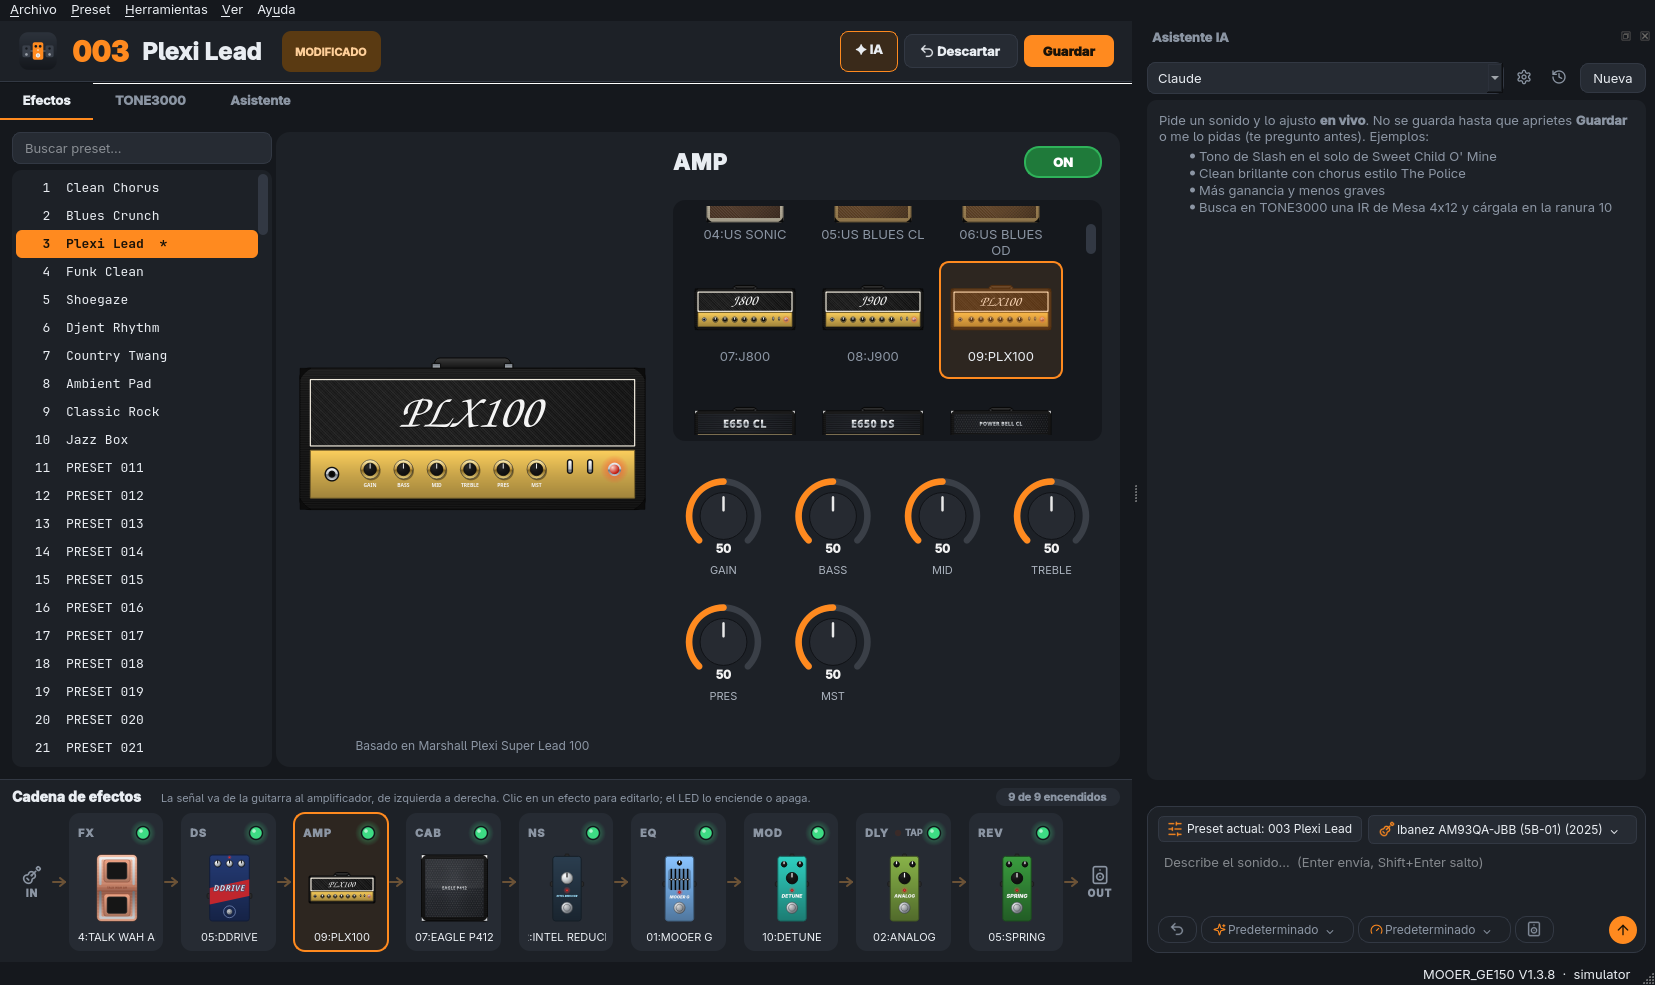
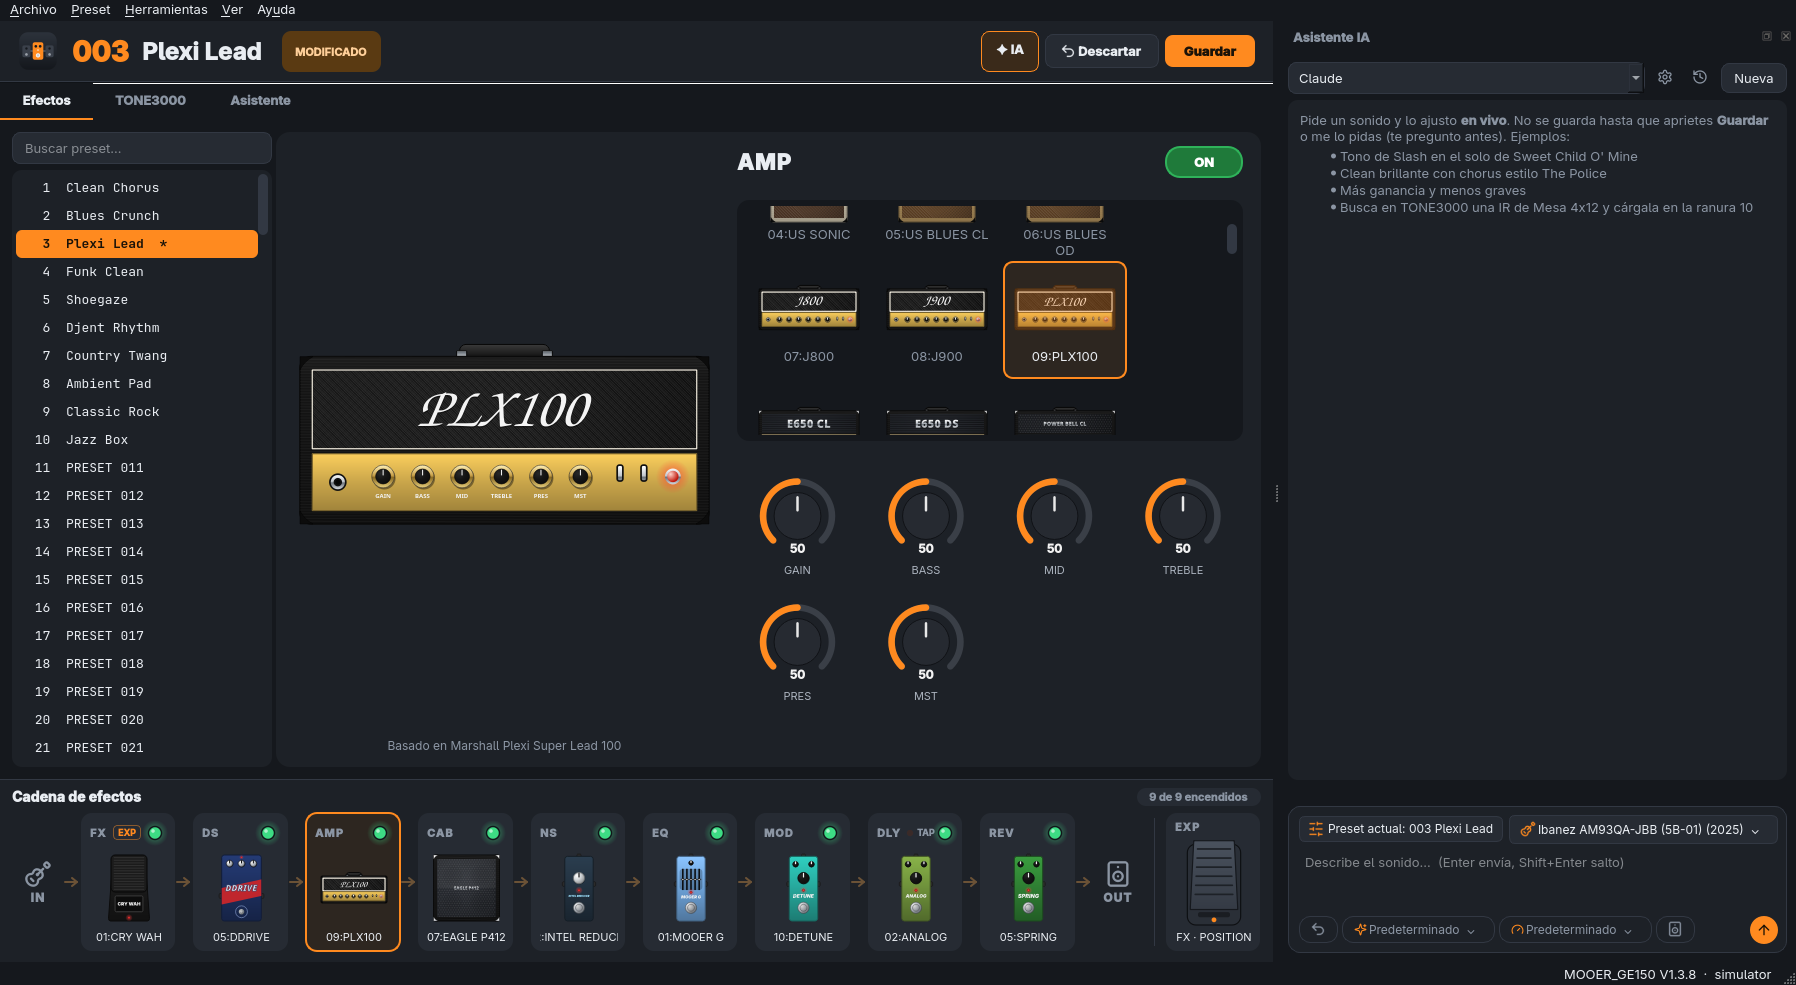
docs: document preset reordering and the expression pedal
README section and screenshot for the EXP page, manual hardware steps,
the EXP findings in plan.md and the changelog.

diff --git a/plan.md b/plan.md
@@ -283,6 +283,35 @@ Un preset ocupa 0xA0 B en la tabla interna: nombre 14 B (ASCII, se permite `a-z 
   el mínimo observado es 40). Enumerados = índice de la opción: SUB-D = OFF, 1/4, 1/4T, 1/4D, 1/8, 1/8T, 1/8D, 1/16, 1/16T, 1/16D, confirmado en la pantalla [V 2026-11-23].
 - El orden EXP `MODULE_CTRL, PARA_CTRL, FUN_SWITCH, VOL_SWITCH, VOL_MIN, VOL_MAX` es el del escritor
   `.mo` (`FUN_00422e00`, palabras 66..71) **[V]**. Su reparto entre 0x98 y 0xB3 es **[I]**.
+- Significado del EXP (2026-11-25, `model/exp.py`) **[I]**: `MODULE_CTRL` = módulo 0..8 (FX … REVERB);
+  `PARA_CTRL` = índice en **una lista plana** de parámetros controlables, módulo tras módulo, la del menú EXP del
+  editor oficial (`FUN_00424c90`; el orden sale de la destrucción de los literales, inverso a su declaración):
+  FX 0-9 `POSITION Q RATE ATTACK RANGE SENS THRES PEAK RATIO LEVEL` · DS 10-12 `VOLUME TONE GAIN` · AMP 13-18
+  `GAIN BASS MID TREBLE PRES MST` · CAB 19-20 `CENTER DISTANCE` · NS 21-24 `THRES SENS ATTACK RELEASE` · EQ 25-38
+  `80HZ … 6.6KHZ` · MOD 39-50 `RATE PITCH RISE SAMPLE MIX DEPTH LEVEL FEEDBACK TONE Q RANGE BIT` · DELAY 51-56
+  `LEVEL FEEDBACK TIME "TIME A" THRES "TIME B"` · REVERB 57-60 `"PRE DELAY" LEVEL DECAY TONE`. Lo confirman su
+  etiqueta por defecto `EXP:FX/COMP - POSITION` (0/0), que cada lista es justo la unión de los parámetros
+  numéricos del módulo en el catálogo, y los 200 presets reales: todos los `PARA_CTRL` con `FUN_SWITCH`=1 caen en
+  un parámetro del modelo del preset (ANA-CHORUS→43 MIX, VIBRATO→44 DEPTH, CHURCH→59 DECAY, HUGEN→13 GAIN…).
+  `FUN_SWITCH` = control de parámetro activo; `VOL_SWITCH`/`VOL_MIN`/`VOL_MAX` = pedal de volumen,
+  independiente (hay presets con los dos en 1). **[V parcial, 2026-11-26]**: al escribir DS/OD 12 desde el editor
+  la pantalla de la pedalera muestra «DS/OD GAIN», y `FUN_SWITCH` = 0 escrito por `0x98` se relee igual.
+  **[V usuario, 2026-11-26]**: el pedal mueve el parámetro asignado (GAIN del 808), pero una asignación hecha en
+  vivo **solo se activa al guardar el preset**. Mientras lo mueve, el valor del parámetro sigue al pedal y la app
+  lo recibe; al quitarle el control queda donde lo dejó el pedal (GAIN 20 → 87) y Guardar lo conserva. Por eso
+  la página del EXP devuelve el parámetro a su valor previo al soltarlo. [ ] Falta: qué hace con `FUN_SWITCH`
+  y `VOL_SWITCH` en 1 a la vez, y si el interruptor de punta cambia `FUN_SWITCH` (la pantalla muestra «EXP
+  FUNCTION» y la app no se entera). La GUI trata volumen y parámetro como excluyentes.
+  **Calibración e interruptor de punta [V hardware, 2026-11-26]** (lectura completa antes y después de hacer EXP
+  CALIBRATE en la pedalera, escuchando el USB entre medio): los 613 reportes leídos son **idénticos** antes y
+  después (sistema completo incluido): la calibración no deja nada legible y no hay comando conocido para
+  iniciarla. Durante la sesión la pedalera solo envió: `0x34 PAGE` 01 → 10 → 05 (cambios de pantalla; 0x10
+  probablemente el menú EXP), `0x18 EXP_A` con `FUN_SWITCH` 0 → 1 y luego 1 → 0 (el interruptor de punta, que
+  **sí avisa por USB**) y, con la función activa, `0x03 MODULE_DS` con GAIN siguiendo la posición del pedal
+  (100 → 0 → 100…, ~30 tramas): la posición del pedal se puede ver en vivo a través del parámetro asignado.
+  Al apagar la función con la punta, el parámetro queda donde estaba el pedal (GAIN 0).
+  GUI (2026-11-26): vista lateral con la posición en vivo (desde el parámetro asignado). Sin botón de calibrar:
+  la calibración solo se hace en la pedalera y no deja nada que la app pueda leer o mostrar.
 
 ### 2.8 Subida y borrado de IR (`0xB5`) y NR (`0xB7`) [V]
 
@@ -567,6 +596,10 @@ ge150-linux/
       parámetros generado desde el catálogo (sliders agrupados en 40 ms → un `0x82+i`), barra de estado.
 - [x] Sincronización bidireccional por `StateBridge` (notificaciones `0x02..0x0A`, `0x16`, `0x17` → señales Qt).
 - [x] Aviso de cambios sin guardar (Guardar / Descartar / Cancelar al cambiar de preset), marca `*` y "(modificado)".
+- [x] Ordenar presets arrastrándolos en la lista (2026-11-25): `bulk_edit.move` reescribe el rango con
+      `copy_from` (backup automático `auto-…-mover.mbf` antes) y vuelve a cargar el preset que sonaba en su nuevo
+      lugar. Se niega si el preset cargado está en el rango con cambios sin guardar. Probado con el simulador;
+      [ ] falta probar el arrastre con el ratón y en la pedalera real.
 - [x] Diálogos: IR de usuario (cargar WAV, borrar, exportar) y pedal de expresión (valores crudos).
 - [x] Probada offscreen con el simulador (tests) y sincronizada con la pedalera real (2,9 s, solo lectura).
 - [x] Interfaz renovada (5b) sincronizada con la pedalera real en modo offscreen (solo lectura, preset 22): presets,
@@ -595,6 +628,9 @@ ge150-linux/
 
 ### Fase 6 — Ajustes de sistema, EXP y Rhythm
 - [x] EXP en vivo (`0x98`/`0xB3`) en el `Editor`, la CLI (`exp`) y la GUI.
+- [x] Tarjeta EXP en la cadena (aparte, tras un divisor; el efecto que mueve lleva la etiqueta EXP) y su página
+      en la zona de módulos: Volumen (mín/máx) / Un efecto (de la cadena o un modelo nuevo, parámetro, atajo Wah)
+      / Nada, en `ui/exp_view.py` (2026-11-26). Sustituye al diálogo de valores crudos. [ ] Probar en la pedalera.
 - [x] Bloques de sistema `0x24..0x27` y Rhythm `0x0C` identificados en hardware (§2.11); escritura verificada
       (SCREEN 18 → 19 y restauración de los valores originales). `model/settings.py`, CLI `system-set`/`rhythm-set`.
 - [x] BPM 40..260 confirmado en la pedalera.

diff --git a/README.md b/README.md
@@ -38,8 +38,9 @@ Editor libre para Linux de la pedalera **Mooer GE150**: interfaz gráfica (`ge15
 - Leer los 200 presets, el preset actual decodificado (modelos y parámetros), los IR de usuario y el
   estado del pedal de expresión.
 - Editar en vivo: encender/apagar módulos, cambiar el modelo y mover parámetros.
-- Guardar, renombrar y copiar presets.
+- Guardar, renombrar y copiar presets, y ordenarlos arrastrándolos en la lista (con backup automático).
 - Ver y cambiar los ajustes de sistema (INPUT LEVEL, SCREEN, CAB SIM THRU, OTG LEVEL) y la caja de ritmos.
+- Asignar el pedal de expresión a un parámetro de cualquier efecto (o al volumen) desde la cadena de efectos.
 - Importar y exportar presets `.mo`, con el formato de la app oficial.
 - Cargar IR desde WAV a las ranuras de usuario (CAB 27-36), borrarlas y exportarlas a WAV.
 - Backup completo y restauración en formato `.mbf`, el de la app oficial.
@@ -172,11 +173,27 @@ ge150 --sim      # con el simulador, sin hardware
 
 - Abajo, siempre visible, la **cadena de efectos** (de IN a OUT): cada módulo con la imagen de su equipo, el
   modelo y su LED de encendido. Un clic abre su página.
-- Un clic en la lista de la izquierda carga el preset (si hay cambios sin guardar, pregunta antes).
+- Un clic en la lista de la izquierda carga el preset (si hay cambios sin guardar, pregunta antes). Para cambiar
+  el orden, **arrastra** un preset a su nuevo lugar: los de entre medio se corren un puesto. Pide confirmación,
+  hace antes un backup automático completo y muestra el avance mientras reescribe la pedalera.
 - La página del módulo muestra el equipo original en grande (foto o dibujo), una galería con todos los
   modelos para elegir y perillas: se giran arrastrando, con la rueda o con las flechas, y con doble clic se
   escribe el valor.
 - En las cabinas, el micrófono se arrastra frente al parlante para cambiar CENTER y DISTANCE.
+- **Pedal de expresión**: su tarjeta EXP está al final de la cadena, aparte (no procesa la señal), y el efecto que
+  mueve lleva la etiqueta EXP. En su página eliges qué controla: el **volumen** (con mínimo y máximo), **un
+  efecto** (cualquiera de los encendidos, o un modelo nuevo, y el parámetro) o **nada**, con un atajo para wah. A
+  la izquierda, el pedal visto de costado se inclina según su posición en vivo. Lo que hay que saber de la GE150:
+
+  - una asignación nueva **se activa al guardar el preset** (la página lo recuerda con un botón Guardar);
+  - mientras el pedal mueve un parámetro, ese parámetro sigue al pedal: al quitarle el control desde la página,
+    vuelve al valor que tenía antes;
+  - la pedalera solo informa la posición del pedal a través del parámetro que mueve: en volumen no se ve;
+  - el interruptor de punta del pedal activa y desactiva el control del parámetro, y la app lo sigue;
+  - la calibración se hace en la propia pedalera (menú EXP → CALIBRATE): no se puede iniciar ni leer por USB.
+
+<p align="center"><img src="docs/img/exp.png" alt="Página del pedal de expresión moviendo el POSITION de un CRY WAH" width="900"></p>
+
 - Cada equipo se dibuja a partir del original (marca, colores, rejilla, perillas). Si prefieres una foto propia,
   pon `<id>.jpg`, `.png` o `.webp` en `~/.local/share/ge150/photos/` (el `id` de cada equipo está en
   `src/ge150/data/gear.json`) y se muestra en lugar del dibujo.

diff --git a/docs/verificacion-hardware.md b/docs/verificacion-hardware.md
@@ -177,7 +177,36 @@ Con el delay encendido en el preset cargado:
 
 Notas:
 
-## 10. Cierre
+## 10. Ordenar presets arrastrándolos
+
+Con tres presets de prueba seguidos (por ejemplo 198, 199 y 200):
+
+- [ ] Arrastrar el 200 sobre el 198: pide confirmación, dice cuántos presets se reescriben y avisa del backup.
+- [ ] Mientras escribe: aviso con avance sobre la lista y no se puede cargar otro preset.
+- [ ] Después: el 198 tiene lo que era el 200 y los otros dos bajaron un puesto (nombre y sonido), en el editor y
+      en la pantalla de la pedalera; el resto de presets no cambió.
+- [ ] Si el preset que sonaba estaba en el rango, sigue sonando en su nuevo lugar.
+- [ ] Arrastrarlo de vuelta lo deja todo como estaba.
+
+Notas:
+
+## 11. Pedal de expresión
+
+En un preset de prueba, con la tarjeta **EXP** de la cadena:
+
+- [ ] **Un efecto** → un parámetro fácil de oír (MIX de un chorus, GAIN de un overdrive): la pantalla de la
+      pedalera muestra la asignación y aparece «Guarda el preset…».
+- [ ] Antes de guardar el pedal no lo mueve; después de **Guardar**, sí, y la vista lateral sigue al pedal.
+- [ ] Pisar la punta del pedal: se apaga el control (la pantalla dice «EXP FUNCTION») y la página lo refleja; otra
+      vez, vuelve.
+- [ ] Cambiar a **Volumen**: el parámetro vuelve a su valor de antes (aviso en la barra de estado) y, tras guardar,
+      el pedal controla el volumen entre el mínimo y el máximo elegidos.
+- [ ] Atajo **Wah** con otro efecto en el FX: pregunta antes de reemplazarlo; con un CRY WAH ya puesto, no.
+- [ ] Un efecto apagado en la cadena no se puede elegir; al encenderlo con su LED, sí.
+
+Notas:
+
+## 12. Cierre
 
 - [ ] Restaurar el **backup manual** del paso 0 si los presets de prueba quedaron distintos a como estaban.
 - [ ] Copiar aquí los problemas encontrados (o abrir un issue por cada uno):

diff --git a/CHANGELOG.md b/CHANGELOG.md
@@ -6,6 +6,31 @@ grandes. Cómo publicar una versión: [`PUBLISH.md`](PUBLISH.md).
 
 ## [Sin publicar]
 
+### Añadido
+
+- Ordenar presets arrastrándolos en la lista de la izquierda: el preset toma el lugar donde lo sueltas y los de
+  entre medio se corren un puesto. Pide confirmación, hace antes un backup automático completo y el preset cargado
+  sigue sonando en su nueva posición. Mientras se escribe, un aviso sobre la lista muestra el avance y no se
+  puede cargar otro preset.
+- El pedal de expresión aparece en la cadena de efectos, aparte, con lo que controla («DS · GAIN», «VOLUMEN»…);
+  el efecto que mueve lleva la etiqueta EXP. Al elegirlo, su página (como la de un efecto) deja escoger qué
+  controla: el volumen (con su mínimo y máximo), un parámetro de un efecto de la cadena o de un modelo nuevo, o
+  nada, y tiene un atajo para wah. Reemplaza al diálogo de valores crudos de *Herramientas → Pedal de expresión*.
+  Muestra el pedal de costado inclinado según su posición en vivo (cuando mueve un parámetro: es lo único por lo que
+  la GE150 la informa), avisa si el cambio necesita guardarse, devuelve el parámetro a su valor al dejar de
+  moverlo y sigue el interruptor de punta.
+
+### Cambiado
+
+- La cadena de efectos ya no tiene texto de ayuda en la cabecera, e IN y OUT se ven más grandes.
+- Al iniciar, los puntos de «Conectando…» y «Leyendo la pedalera…» se mueven mientras se lee la pedalera.
+
+### Corregido
+
+- Asistente: un preset que se escuchaba antes de aplicarlo no se escribía si su copia tenía otros ajustes del pedal
+  de expresión. La vista previa no cargaba esos ajustes, así que el preset parecía tener cambios sin guardar y se
+  saltaba al aplicar. Ahora la vista previa, la comparación A/B y deshacer una propuesta también restauran el EXP.
+
 ## [0.4.0] - 2026-11-23
 
 ### Añadido
